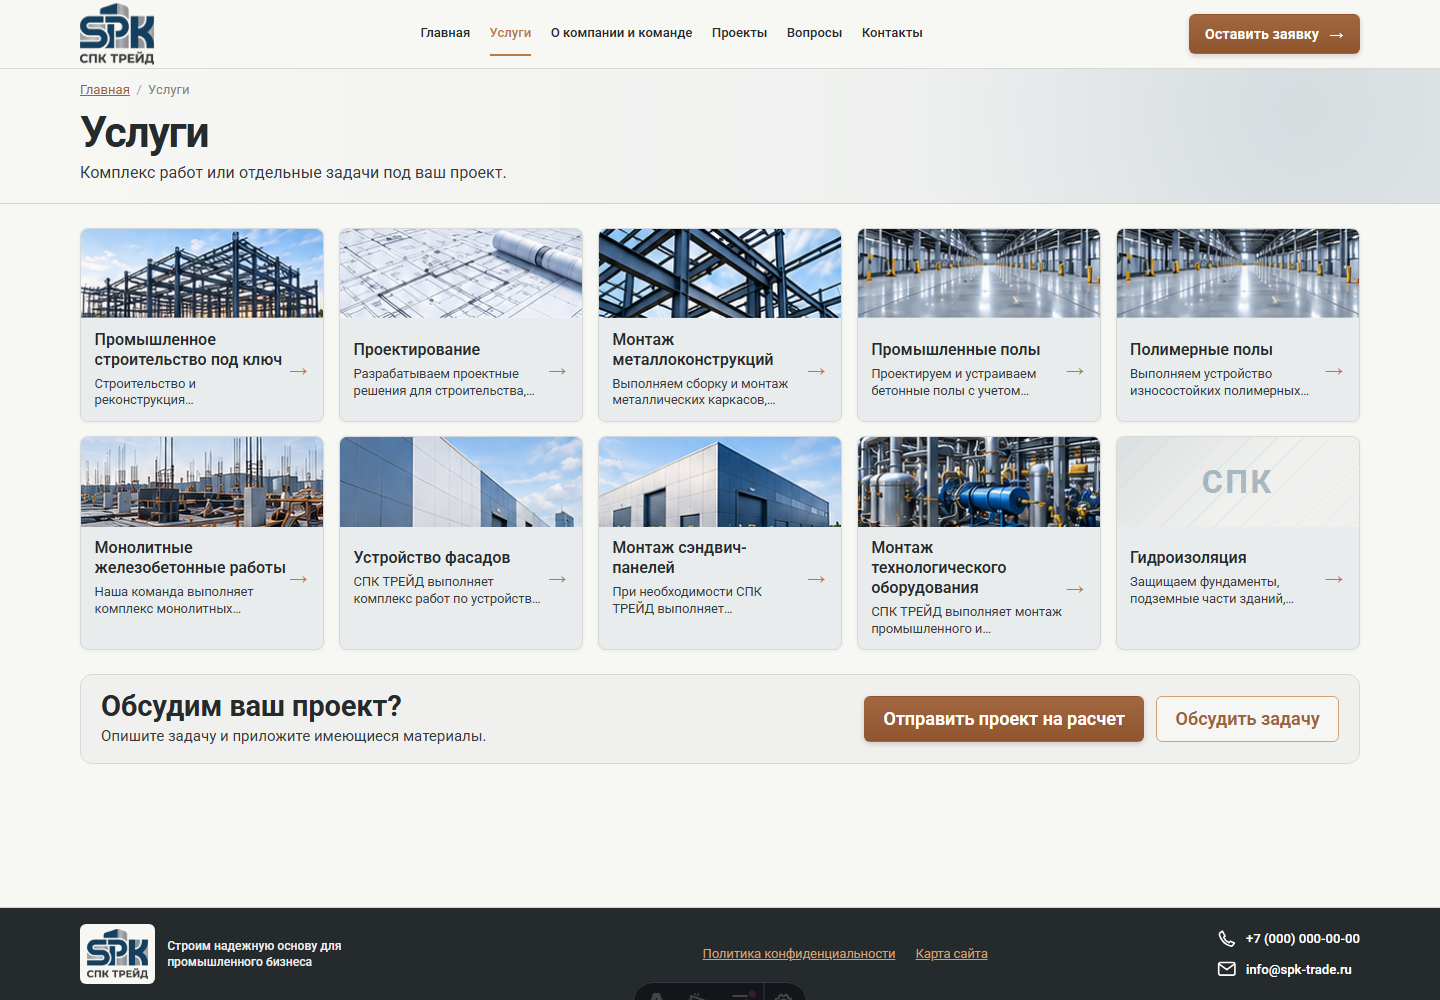
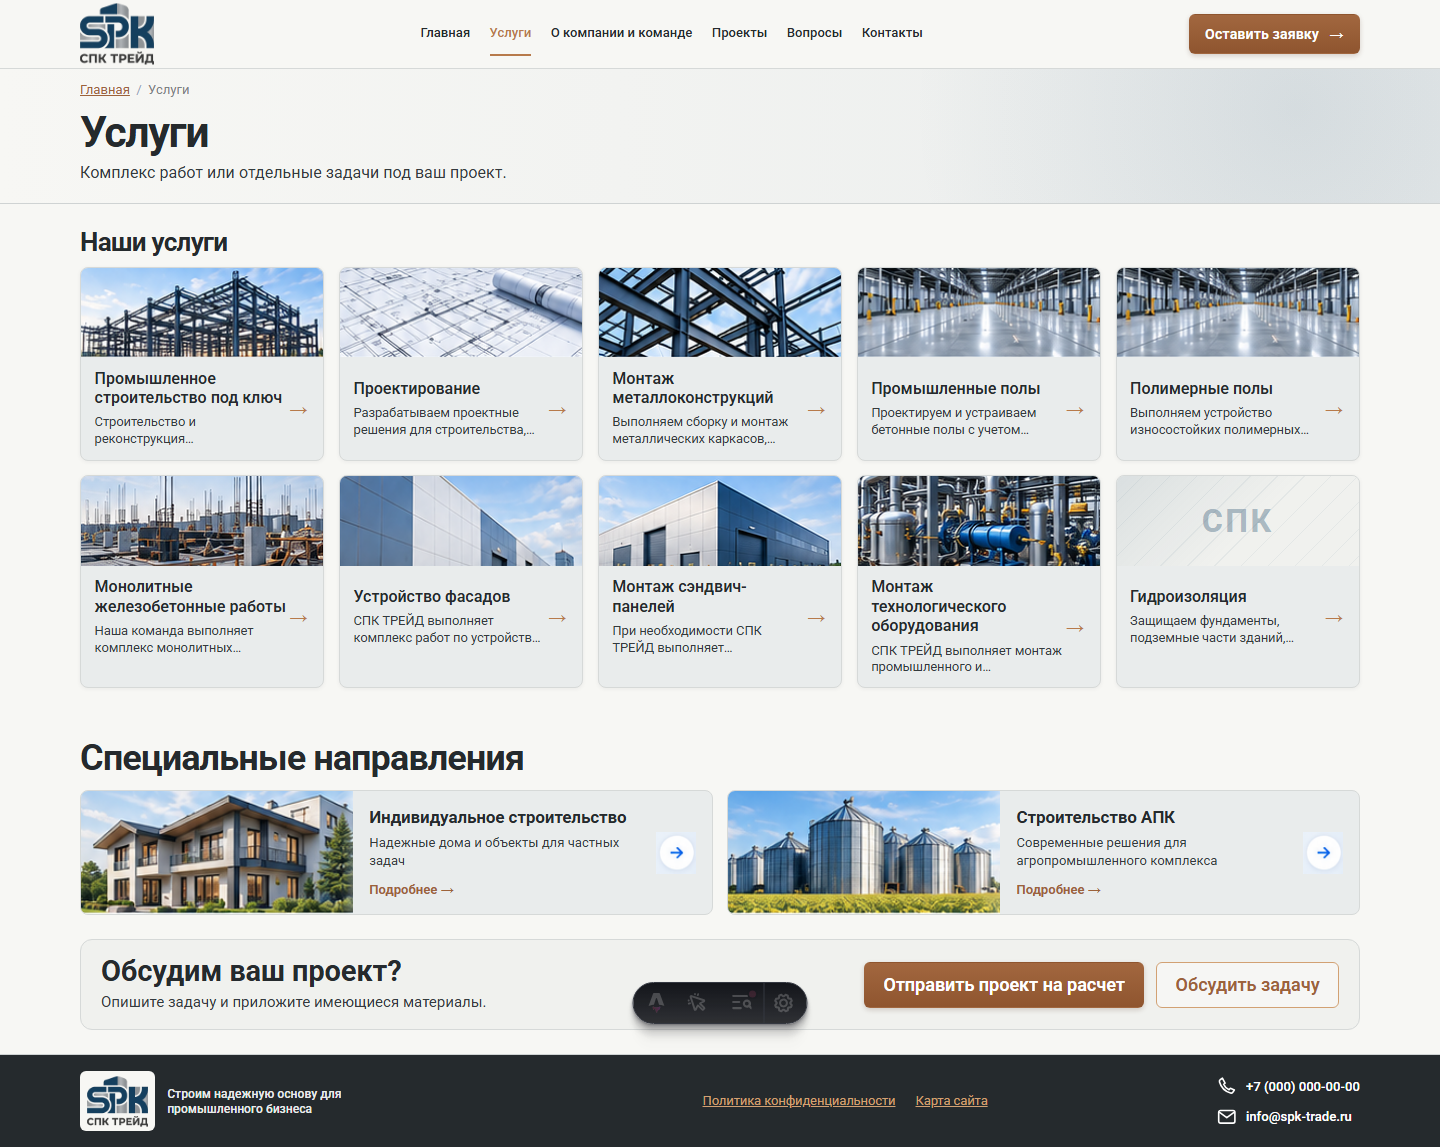
Добавить направления на страницу услуг

diff --git a/qa/REPORT.md b/qa/REPORT.md
@@ -14,7 +14,7 @@ GitHub: `https://github.com/bogatovaprof-hub/spk-website`
 
 - Новый логотип подключён из предоставленного PNG с прозрачностью. Исходный файл не изменён; в сайт добавлена идентичная копия `public/images/logo-spk-client.png`.
 - Новая палитра применена через общие CSS-токены. Фирменный синий `#164264` подобран по наиболее частому цвету синего образца; остальные цвета взяты из предоставленной палитры.
-- Главная сокращена до входной страницы многостраничного сайта. Каталог услуг, специальные направления, «О компании и команде», «Вопросы» и «Контакты» доступны только на собственных страницах и больше не дублируются на главной.
+- Главная сокращена до входной страницы многостраничного сайта. Каталог услуг и специальные направления перенесены на страницу «Услуги»; «О компании и команде», «Вопросы» и «Контакты» доступны на собственных страницах.
 - Обновлены четыре факта и первая карточка промышленного строительства.
 - Расширены страницы восьми услуг; полимерные полы и гидроизоляция сохранены как дополнительные услуги каталога.
 - Опубликован каталог из 12 проектов без выдуманных результатов работ. Карточки дополнены шестью нейтральными иллюстративными фонами с основным визуалом справа.
@@ -71,7 +71,7 @@ GitHub: `https://github.com/bogatovaprof-hub/spk-website`
 |---|---:|---:|---|
 | Главная | 3141 px / 4,09 экрана | 1138 px / 1,48 экрана | услуги и остальные подробные разделы вынесены на отдельные страницы |
 | Отправить проект на расчёт | 1462 px / 1,90 экрана | 768 px / 1,00 экрана | помещается без прокрутки |
-| Услуги | 1570 px / 2,04 экрана | 887 px / 1,15 экрана | сокращено на 44% |
+| Услуги | 1570 px / 2,04 экрана | 1147 px / 1,49 экрана | основной каталог и специальные направления собраны на одной странице |
 | О компании и команде | 1709 px / 2,23 экрана | 956 px / 1,24 экрана | сокращено на 44% |
 | Проекты | 2175 px / 2,83 экрана | 1280 px / 1,67 экрана | сокращено на 41% |
 | Вопросы | 1303 px / 1,70 экрана | 768 px / 1,00 экрана | помещается без прокрутки |
@@ -88,7 +88,7 @@ GitHub: `https://github.com/bogatovaprof-hub/spk-website`
 | `qa/screenshots/home-1440.png` | 1440 × 1149 |
 | `qa/screenshots/home-390.png` | 390 × 2114 |
 | `qa/screenshots/home-360.png` | 360 × 2115 |
-| `qa/screenshots/services-1440.png` | 1440 × 1000 |
+| `qa/screenshots/services-1440.png` | 1440 × 1147 |
 | `qa/screenshots/service-detail-390.png` | 390 × 1445 |
 | `qa/screenshots/service-equipment-1440.png` | 1440 × 1385 |
 | `qa/screenshots/projects-1440.png` | 1440 × 1295 |

diff --git a/docs/CLIENT_REVISION_2026-09-23.md b/docs/CLIENT_REVISION_2026-09-23.md
@@ -29,7 +29,7 @@
 
 Полные блоки «О компании и команде», «Вопросы» и «Контакты» с главной удалены. Их содержание не потеряно и доступно на отдельных страницах через основное и мобильное меню.
 
-Каталог «Наши услуги» и карточки специальных направлений также удалены с главной. Услуги доступны через пункт меню «Услуги», а страницы индивидуального строительства и АПК сохранены в структуре сайта и карте сайта.
+Каталог «Наши услуги» и карточки специальных направлений удалены с главной и перенесены на страницу «Услуги». На ней сначала размещён основной каталог, затем раздел «Специальные направления» со ссылками на страницы индивидуального строительства и АПК.
 
 ## Происхождение фактов
 
